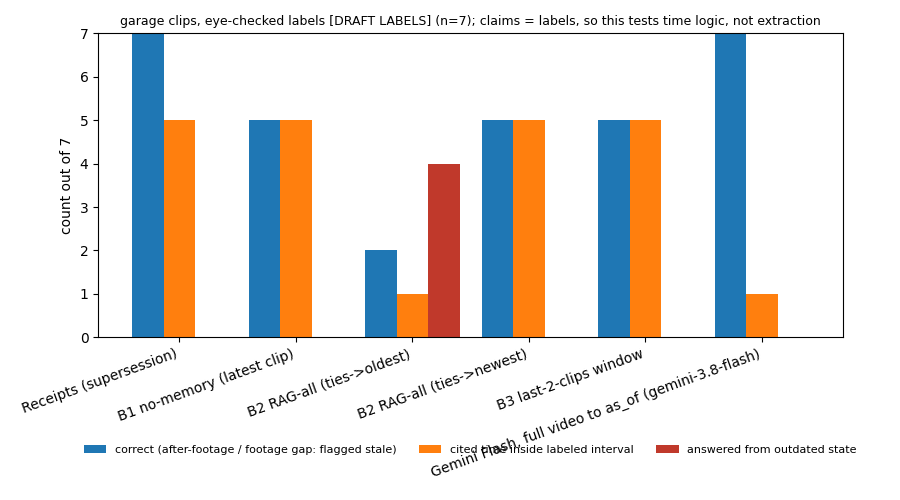
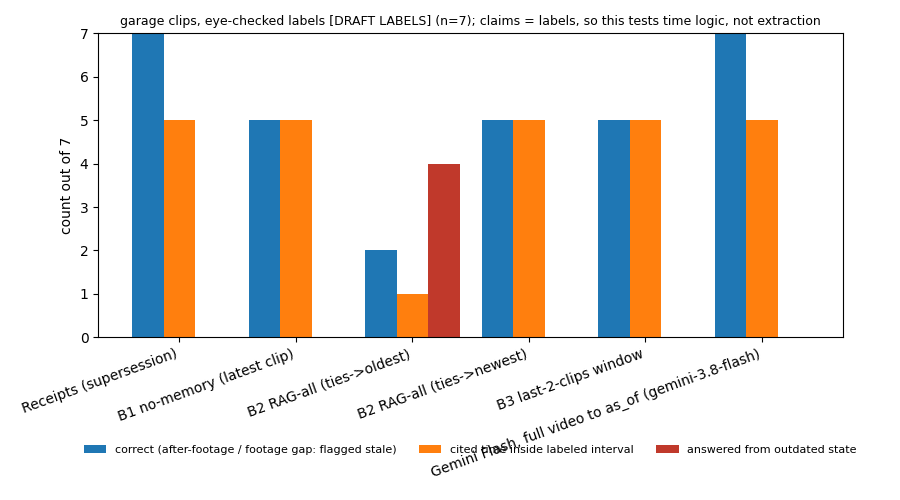
Citation metric: a citation inside the labeled interval counts
A precise citation of one moment of a long labeled state (e.g. 1 s of a 9 s 'door
open' label) failed the IoU >= 0.5 rule. Now inside-the-label counts, and a wider
citation still needs IoU >= 0.5. Only Gemini's citation column changes (bridge 4->6/9,
garage 1->5/7); all other numbers, including the venue set, are unchanged.

Changed region(s): [[0.8089, 0.24, 0.8711, 0.6]]

diff --git a/tests/test_compare_sets.py b/tests/test_compare_sets.py
@@ -83,5 +83,18 @@ class Sets(unittest.TestCase):
         self.assertIsNone(sv.api_compare("../etc"))
 
 
+class Citation(unittest.TestCase):
+    def test_inside_counts_and_wide_needs_iou(self):
+        w = (100.0, 110.0)
+        self.assertTrue(cmp.interval_contains(w, (104.0, 105.0)))   # precise moment inside a long label
+        self.assertTrue(cmp.interval_contains(w, (100.0, 110.0)))
+        self.assertTrue(cmp.interval_contains(w, (105.0, 105.0)))   # instant inside
+        self.assertTrue(cmp.interval_contains(w, (99.0, 110.5)))    # slightly wider, IoU >= 0.5
+        self.assertFalse(cmp.interval_contains(w, (95.0, 101.0)))   # mostly outside
+        self.assertFalse(cmp.interval_contains(w, (111.0, 111.0)))
+        self.assertFalse(cmp.interval_contains(None, (104.0, 105.0)))
+        self.assertFalse(cmp.interval_contains(w, None))
+
+
 if __name__ == "__main__":
     unittest.main()

diff --git a/eval/compare.py b/eval/compare.py
@@ -142,11 +142,14 @@ def cited_interval(result):
 def interval_contains(window, point_iv):
     if not window or not point_iv:
         return False
-    # A cited instant counts if it falls inside the labeled window.
-    # A cited range counts if its overlap with the window has IoU >= 0.5,
-    # or if the range is a point inside the window.
+    # A cited instant or range counts if it lies inside the labeled window (a precise citation of
+    # one moment of a long labeled state is right), or if it overlaps the window with IoU >= 0.5
+    # (a citation a little wider than the label).
+    eps = 1e-6
+    if window[0] - eps <= point_iv[0] and point_iv[1] <= window[1] + eps:
+        return True
     if point_iv[0] == point_iv[1]:
-        return window[0] <= point_iv[0] <= window[1]
+        return False
     return iou(window, point_iv) >= 0.5
 
 
